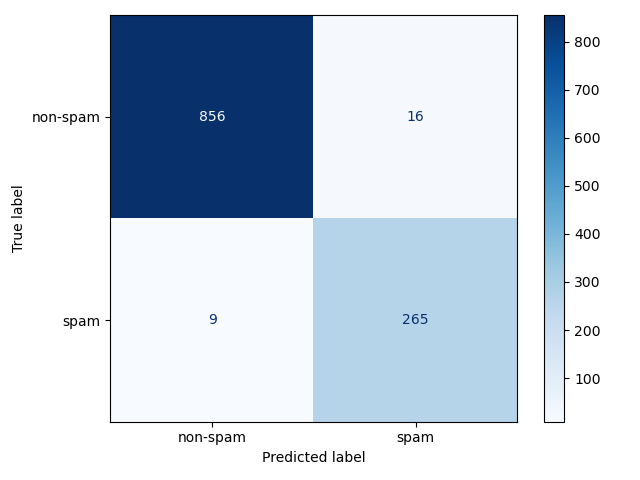
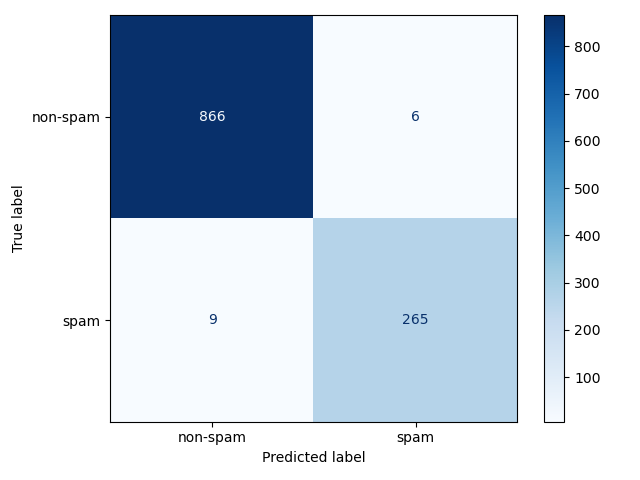
Fitted data to rbf kernel for better performance, updated results in README

diff --git a/svm.py b/svm.py
@@ -6,30 +6,89 @@
 
 import joblib, numpy as np
 from sklearn.svm import SVC, LinearSVC
-from sklearn.model_selection import StratifiedKFold, RandomizedSearchCV 
+from sklearn.model_selection import StratifiedKFold, RandomizedSearchCV, GridSearchCV 
 from scipy.stats import loguniform 
 from sklearn.calibration import CalibratedClassifierCV
 from text_encoding import load_samples
 
-def main():
-    # Load training_samples 
-    X, y = load_samples("training_samples.npz")
 
+SEED = np.random.randint(0, high=np.iinfo(np.int32).max)
+
+def get_linear_svc(X, y): 
+    '''
+    Yields the best performing model (in terms of hyperparameters) given training set
+
+    Inputs: 
+        X - training_samples 
+        y - training_labels 
+    Output: 
+        Best performing model from randomized search, then a finer grid search
+    '''
     svc = LinearSVC(class_weight="balanced", dual=False, loss="squared_hinge", penalty="l2")
     param_grid = {
         "C": loguniform(1e-3, 1e+1),
         "tol": [1e-4, 1e-3],
     }
 
-    cross = StratifiedKFold(n_splits=5, shuffle=True, random_state=0)
+    cross = StratifiedKFold(n_splits=5, shuffle=True, random_state=SEED)
 
     search = RandomizedSearchCV(svc, param_distributions=param_grid, n_iter=30, scoring="average_precision", 
-                                cv=cross, n_jobs=-1, random_state=0, verbose=51, refit=True)
-
+                                cv=cross, n_jobs=-1, random_state=SEED, verbose=51, refit=True)
     search.fit(X, y)
-    best = search.best_estimator_
+    C, tol = search.best_params_["C"], search.best_params_["tol"]
 
-    calibrated = CalibratedClassifierCV(best, method="sigmoid", cv=5)
+    best_grid = {
+        "C": np.logspace(np.log10(C/5), np.log10(C * 5), 9),
+        "tol": np.logspace(np.log10(tol/5), np.log10(tol * 5), 9)
+    }
+
+    fine = GridSearchCV(svc, param_grid=best_grid, cv=cross, 
+                        n_jobs=-1, verbose=51, refit=True)
+    fine.fit(X, y)
+    return fine.best_estimator_
+
+
+def get_rbf_svc(X, y):
+    '''
+    Identical to get_linear_svc but for rbf kernel hyperparams 
+
+    Inputs: 
+        X - training_samples 
+        y - training_labels 
+    Output: 
+        Best performing model from randomized search, then a finer grid search
+    '''
+    cross = StratifiedKFold(n_splits=5, shuffle=True, random_state=SEED)
+    svc = SVC(kernel="rbf", class_weight="balanced", probability=False)
+
+    param_grid = {
+        "C": loguniform(1e-3, 10),
+        "gamma": loguniform(1e-5, 1)
+    }
+
+    search = RandomizedSearchCV(svc, param_distributions=param_grid, n_iter=120, scoring="average_precision",
+                                cv=cross, n_jobs=-1, random_state=SEED, verbose=51, refit=True)
+    search.fit(X, y)
+    C, gamma = search.best_params_["C"], search.best_params_["gamma"]
+
+    best_grid = { 
+        "C": np.logspace(np.log10(C/5), np.log10(C * 5), 9),
+        "gamma": np.logspace(np.log10(gamma/5), np.log10(gamma * 5), 9)
+    }
+
+    fine = GridSearchCV(svc, param_grid=best_grid, cv=cross, 
+                        n_jobs=-1, verbose=51, refit=True)
+    fine.fit(X, y)
+    return fine.best_estimator_
+
+
+def main():
+    # Load training_samples 
+    X, y = load_samples("training_samples.npz")
+
+    rbf = get_rbf_svc(X, y)
+
+    calibrated = CalibratedClassifierCV(rbf, method="sigmoid", cv=5)
     calibrated.fit(X, y)
 
     joblib.dump(calibrated, "svm_best.joblib")

diff --git a/README.md b/README.md
@@ -21,16 +21,18 @@ Using the emails.csv file (Or any other dataset that is formatted similarly),
 
 I plan on creating a pipeline to read a faux input stream of emails and perform real-time classification of emails. This requires a more robust formatting that works off of the pure html format. Additionally it might require a more robust way of handling larger emails as the token context of USE-4 might not be sufficient. 
 
-## Output, Hyperparameters, and Confusion Matrix for Current Best Model
+## Metrics and Confusion Matrix for Current Best Model
 
-Outputs from most recent model
+Performance metrics from most recent model,
 
 |class|precision|recall|f1|support|
 |---|---|---|---|---|
-|non-spam|0.990|0.982|0.986|872|
-|spam|0.943|0.967|0.955|274|
-|accuracy|||0.978|1146|
-|macro avg|0.966|0.974|0.970|1146|
-|weighted avg|0.978|0.978|0.978|1146|
+|non-spam|0.990|0.993|0.991|872|
+|spam|0.978|0.967|0.972|274|
+|accuracy|||0.987|1146|
+|macro avg|0.984|0.980|0.982|1146|
+|weighted avg|0.987|0.987|0.987|1146|
+
+And the corrsponding Confusion Matrix,
 
 ![Confusion Matrix](confusion_matrix.png)
